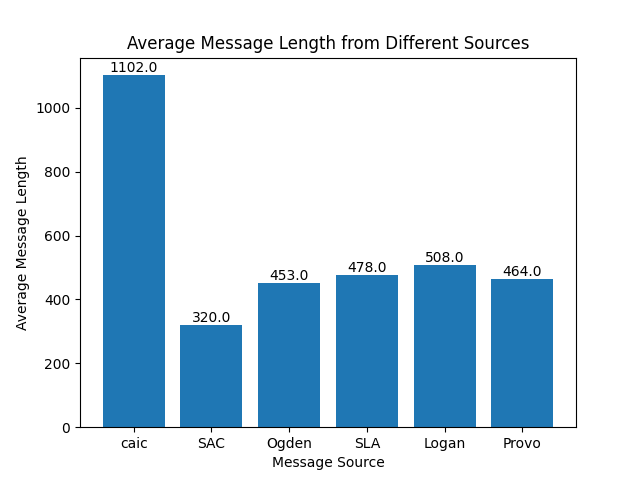
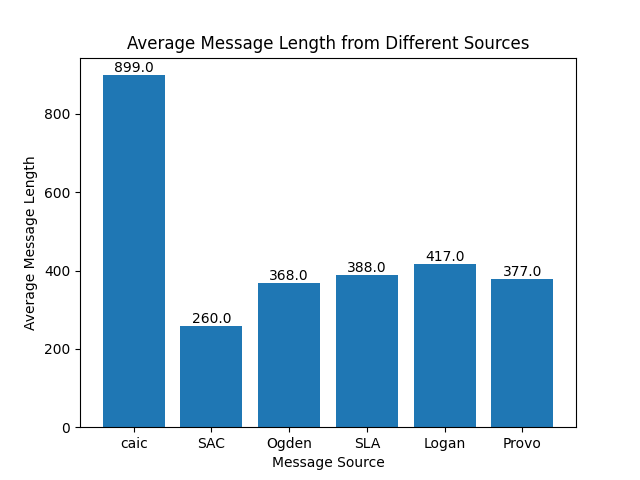
updated graphs

diff --git a/3_LengthOfMessageAnalysis/32_process/length_of_message.py b/3_LengthOfMessageAnalysis/32_process/length_of_message.py
@@ -1,13 +1,14 @@
 import pandas as pd
 import matplotlib.pyplot as plt
 import os
+import re
 
 
 def get_avg_length(column : pd.Series):
     total = 0
     for data in column.values:
         print(data)
-        total += len(data)
+        total += len(re.sub(r'[^a-zA-Z0-9]', '', data))
     if column.empty:
         return 0
     return total / column.size
